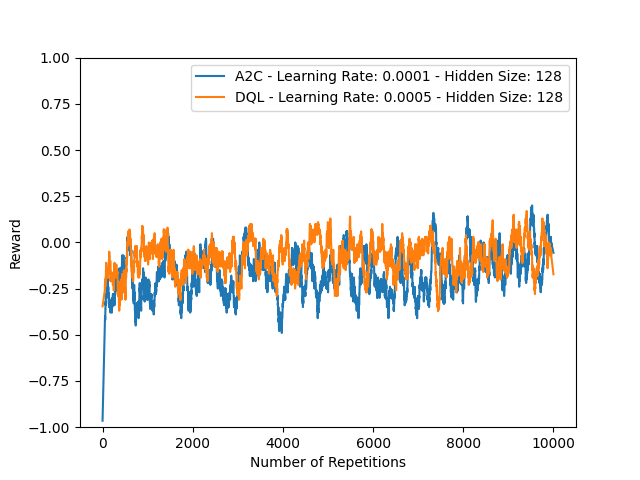
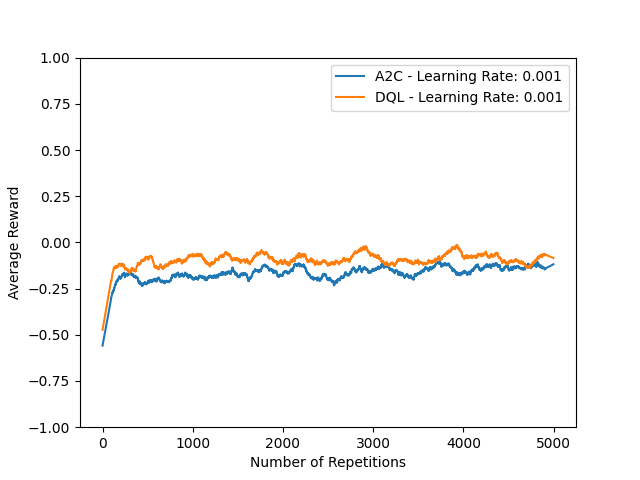
Done

diff --git a/ActorCritic.py b/ActorCritic.py
@@ -5,14 +5,26 @@ import torch.nn as nn
 import matplotlib.pyplot as plt
 import random
 from scipy.signal import savgol_filter
-from agents import ActorCriticDiscrete, DeepQLearning, ExperienceReplay
+from collections import deque
+from agents import ActorCriticDiscrete, DeepQLearning
 
-def A2C_blackjack(model_info, environment, hidden_size, learning_rate, n_repetitions, gamma):
+def A2C_blackjack(model_info, hidden_size, learning_rate, n_repetitions, gamma):
+    """Advantage Actor-Critic for the Blackjack environment. The model is saved as a .pth file when the training is done.
+    
+    Parameters:
+        model_info (str): The information about the model, so that the model can be saved as a .pth file.
+        hidden_size (int): The size of the hidden layer.
+        learning_rate (float): The learning rate for the optimizer.
+        n_repetitions (int): The number of repetitions to train the model on.
+        gamma (float): The discount factor.
+    
+    Returns:
+        total_reward (np.ndarray): The total rewards for each repetition.
+    """
+    environment = gym.make("Blackjack-v1")
     total_rewards = np.zeros(n_repetitions)
     
-    environment = gym.make("Blackjack-v1")
     input_size = len(environment.observation_space)
-    hidden_size = hidden_size
     output_size = environment.action_space.n
     
     model = ActorCriticDiscrete(input_size, hidden_size, output_size)
@@ -61,23 +73,34 @@ def A2C_blackjack(model_info, environment, hidden_size, learning_rate, n_repetit
             optimizer_actor.step()
             optimizer_critic.step()
             state = next_state
-        # print(f"Repetition {repetition}, Actor Loss: {actor_loss.item()}, Critic Loss: {critic_loss.item()}, Reward: {total_reward}, Count: {count}")
     environment.close()
     torch.save(model.state_dict(), f'A2C_blackjack_{model_info}.pth')
     return total_rewards
 
-def DQL_blackjack(model_info, environment, hidden_size, learning_rate, n_repetitions, gamma):
+def DQL_blackjack(model_info, hidden_size, learning_rate, n_repetitions, gamma):
+    """Deep Q-Learning for the Blackjack environment using an experience buffer. The model is saved as a .pth file when the training is done.
+    
+    Parameters:
+        model_info (str): The information about the model, so that the model can be saved as a .pth file.
+        hidden_size (int): The size of the hidden layer.
+        learning_rate (float): The learning rate for the optimizer.
+        n_repetitions (int): The number of repetitions to train the model on.
+        gamma (float): The discount factor.
+    
+    Returns:
+        total_reward (np.ndarray): The total rewards for each repetition.
+    """
+    environment = gym.make("Blackjack-v1")
     total_rewards = np.zeros(n_repetitions)
     
     input_size = len(environment.observation_space)
-    hidden_size = hidden_size
     output_size = environment.action_space.n
 
     model = DeepQLearning(input_size, hidden_size, output_size)
     optimizer = torch.optim.Adam(model.parameters(), lr=learning_rate)
     
     batch_size = 64
-    experience_replay = ExperienceReplay(10000, batch_size)
+    memory = deque(maxlen=10000)
     epsilon = 0.1
     for repetition in range(n_repetitions):
         state, _ = environment.reset()
@@ -96,12 +119,12 @@ def DQL_blackjack(model_info, environment, hidden_size, learning_rate, n_repetit
             if truncation:
                 done = True
             next_state = torch.tensor(next_state, dtype=torch.float32)
-            experience_replay.memory.append((state, action, next_state, reward, done))
+            memory.append((state, action, next_state, reward, done))
             state = next_state
             total_reward += reward
 
-            if len(experience_replay.memory) > batch_size:
-                experiences = random.sample(experience_replay.memory, experience_replay.batch_size)
+            if len(memory) > batch_size:
+                experiences = random.sample(memory, batch_size)
                 states, actions, next_states, rewards, dones = zip(*experiences)
                 states = np.array(states)
                 actions = np.array(actions)
@@ -126,9 +149,22 @@ def DQL_blackjack(model_info, environment, hidden_size, learning_rate, n_repetit
     environment.close()
     torch.save(model.state_dict(), f'DQL_blackjack_{model_info}.pth')
     return total_rewards
-        
 
 def test(input_size, hidden_size, output_size, weights, A2C):
+    """Test the trained model on the Blackjack environment.
+
+    Parameters:
+        input_size (int): The size of the input.
+        hidden_size (int): The size of the hidden layer.
+        output_size (int): The size of the output.
+        weights (str): The path to the weights of the model.
+        A2C (bool): Whether the model is an Actor-Critic model or not.
+        
+    Returns:
+        total_wins (int): The total number of wins.
+        total_losses (int): The total number of losses.
+        total_draws (int): The total number of draws.
+    """
     environment = gym.make("Blackjack-v1")
     if A2C:
         model = ActorCriticDiscrete(input_size, hidden_size, output_size)
@@ -159,10 +195,16 @@ def test(input_size, hidden_size, output_size, weights, A2C):
                     total_draws += 1
             state = torch.tensor(next_state, dtype=torch.float32)
     environment.close()
-    # print(f"Wins: {total_wins}, Losses: {total_losses}, Draws: {total_draws}")
     return total_wins, total_losses, total_draws
     
 def test_random():
+    """Test the random model on the Blackjack environment.
+
+    Returns:
+        total_wins (int): The total number of wins.
+        total_losses (int): The total number of losses.
+        total_draws (int): The total number of draws.
+    """
     environment = gym.make("Blackjack-v1")
     total_wins = 0
     total_losses = 0
@@ -181,53 +223,98 @@ def test_random():
                 else:
                     total_draws += 1
     environment.close()
-    # print(f"Wins: {total_wins}, Losses: {total_losses}, Draws: {total_draws}")
     return total_wins, total_losses, total_draws
 
-def experiment(n_tests, n_repetitions):
+def experiment(environment, n_tests, n_repetitions):
+    """Run all the experiments for the Blackjack environment and both models and plot the results.
+
+    Parameters:
+        environment (gym.Env): The environment to run the experiments on.
+        n_tests (int): The number of tests to run.
+        n_repetitions (int): The number of repetitions to train the models on.
+    """
     optimal_values = {'A2C': {"Evaluation": np.full(n_repetitions, -np.inf), "Learning_rate": 0},
                       'DQL': {"Evaluation": np.full(n_repetitions, -np.inf), "Learning_rate": 0}}
     
+    input_size = len(environment.observation_space)
+    output_size = environment.action_space.n
+    
     learning_rates = [0.0001, 0.0005, 0.001]
-    # for agent in ['A2C', 'DQL']:
-    #     plt.figure()
-    #     for learning_rate in learning_rates:
-    #         model_info = f'{learning_rate}'
-    #         total_rewards = np.zeros((n_tests, n_repetitions))
-    #         for i in range(n_tests):
-    #             environment = gym.make("Blackjack-v1")
-    #             if agent == 'A2C':
-    #                 rewards = A2C_blackjack(model_info, environment, hidden_size=32, learning_rate=learning_rate, n_repetitions=n_repetitions, gamma=0.99)
-    #             elif agent == 'DQL':
-    #                 rewards = DQL_blackjack(model_info, environment, hidden_size=128, learning_rate=learning_rate, n_repetitions=n_repetitions, gamma=0.3)
-    #             total_rewards[i] = rewards
-    #         mean_rewards = np.mean(total_rewards, axis=0)
-    #         window = 100
-    #         smoothed_rewards = savgol_filter(mean_rewards, window, 1)
-    #         if np.sum(mean_rewards) > np.sum(optimal_values[agent]["Evaluation"]):
-    #             optimal_values[agent]["Evaluation"] = mean_rewards
-    #             optimal_values[agent]["Learning_rate"] = learning_rate
-    #         plt.plot(smoothed_rewards, label=f'Learning Rate: {learning_rate}')
-    #     plt.xlabel('Number of Repetitions')
-    #     plt.ylabel('Average Reward')
-    #     plt.ylim(-1, 1)
-    #     plt.legend()
-    #     plt.savefig(f'{agent}_rewards.png')
-    #     plt.close()
+    window = 180
     
-    # plt.figure()
-    # for agent in ['A2C', 'DQL']:
-    #     optimal_value = optimal_values[agent]["Evaluation"]
-    #     window = 100
-    #     smoothed_rewards = savgol_filter(optimal_value, window, 1)
-    #     plt.plot(smoothed_rewards, label=f'{agent} - Learning Rate: {optimal_values[agent]["Learning_rate"]}')
-    # plt.xlabel('Number of Repetitions')
-    # plt.ylabel('Reward')
-    # plt.ylim(-1, 1)
-    # plt.legend()
-    # plt.savefig('optimal_rewards.png')
-    # plt.close()
+    optimal_values = train_models(n_tests, n_repetitions, learning_rates, window)
+    plot_optimal_curves(optimal_values, window)
+    test_models(n_tests, learning_rates, input_size, output_size)
+        
+def train_models(n_tests, n_repetitions, learning_rates, window):
+    """Train two models on the Blackjack environment and plot the results.
+
+    Parameters:
+        n_tests (int): The number of tests to run.
+        n_repetitions (int): The number of repetitions to train the models on.
+        learning_rates (list): The learning rates to train the models on.
+        window (int): The window size for the smoothing function.
+
+    Returns:
+        optimal_values (dict): The optimal curves for the two models.
+    """
+    optimal_values = {'A2C': {"Evaluation": np.full(n_repetitions, -np.inf), "Learning_rate": 0},
+                      'DQL': {"Evaluation": np.full(n_repetitions, -np.inf), "Learning_rate": 0}}
+    for agent in ['A2C', 'DQL']:
+        plt.figure()
+        for learning_rate in learning_rates:
+            model_info = f'{learning_rate}'
+            total_rewards = np.zeros((n_tests, n_repetitions))
+            for i in range(n_tests):
+                if agent == 'A2C':
+                    rewards = A2C_blackjack(model_info, hidden_size=32, learning_rate=learning_rate, n_repetitions=n_repetitions, gamma=0.99)
+                elif agent == 'DQL':
+                    rewards = DQL_blackjack(model_info, hidden_size=128, learning_rate=learning_rate, n_repetitions=n_repetitions, gamma=0.3)
+                total_rewards[i] = rewards
+            mean_rewards = np.mean(total_rewards, axis=0)
+            smoothed_rewards = savgol_filter(mean_rewards, window, 1)
+            if np.sum(mean_rewards) > np.sum(optimal_values[agent]["Evaluation"]):
+                optimal_values[agent]["Evaluation"] = mean_rewards
+                optimal_values[agent]["Learning_rate"] = learning_rate
+            plt.plot(smoothed_rewards, label=f'Learning Rate: {learning_rate}')
+        plt.xlabel('Number of Repetitions')
+        plt.ylabel('Average Reward')
+        plt.ylim(-1, 1)
+        plt.legend()
+        plt.savefig(f'{agent}_rewards.png')
+        plt.close()
+    return optimal_values
+
+def plot_optimal_curves(optimal_values, window):
+    """Plot the optimal curves for the two models.
+
+    Parameters:
+        optimal_values (dict): The optimal values for the two models.
+        window (int): The window size for the smoothing function.
+    """
+    plt.figure()
+    for agent in ['A2C', 'DQL']:
+        optimal_value = optimal_values[agent]["Evaluation"]
+        smoothed_rewards = savgol_filter(optimal_value, window, 1)
+        plt.plot(smoothed_rewards, label=f'{agent} - Learning Rate: {optimal_values[agent]["Learning_rate"]}')
+    plt.xlabel('Number of Repetitions')
+    plt.ylabel('Average Reward')
+    plt.ylim(-1, 1)
+    plt.legend()
+    plt.savefig('optimal_rewards.png')
+    plt.close()
     
+def test_models(n_tests, learning_rates, input_size, output_size):
+    """Test the random and trained models on the Blackjack environment and plot the results.
+
+    Parameters:
+        environment (gym.Env): The environment to test the models on.
+        n_tests (int): The number of tests to run.
+        learning_rates (list): The learning rates to test the models on.
+        input_size (int): The size of the input.
+        output_size (int): The size of the output.
+    """
+    environment = gym.make("Blackjack-v1")
     human_rates = [4222, 848, 4910]
     labels = ['Wins', 'Draws', 'Losses']
     for agent in ['Random', 'A2C', 'DQL']:
@@ -238,15 +325,12 @@ def experiment(n_tests, n_repetitions):
             total_draws = 0
             total_losses = 0
             for i in range(n_tests):
-                environment = gym.make("Blackjack-v1")
-                input_size = len(environment.observation_space)
-                output_size = environment.action_space.n
                 if agent == 'A2C':
-                    wins, losses, draws = test(input_size=input_size, hidden_size=32, output_size=output_size, weights=f'A2C_blackjack_{learning_rate}.pth', A2C=True)
+                    wins, losses, draws = test(environment=environment, input_size=input_size, hidden_size=32, output_size=output_size, weights=f'A2C_blackjack_{learning_rate}.pth', A2C=True)
                 elif agent == 'DQL':
-                    wins, losses, draws = test(input_size=input_size, hidden_size=128, output_size=output_size, weights=f'DQL_blackjack_{learning_rate}.pth', A2C=False)
+                    wins, losses, draws = test(environment=environment, input_size=input_size, hidden_size=128, output_size=output_size, weights=f'DQL_blackjack_{learning_rate}.pth', A2C=False)
                 elif random_count == 0:
-                    wins, losses, draws = test_random()
+                    wins, losses, draws = test_random(environment=environment)
                 total_wins += wins
                 total_draws += draws
                 total_losses += losses
@@ -256,6 +340,7 @@ def experiment(n_tests, n_repetitions):
             average_losses = total_losses / n_tests
             
             x = np.arange(len(labels))
+            # The following code is used to correctly align and plot the bars based on the agent
             if agent == 'A2C' or agent == 'DQL':
                 width = 0.15
                 offset = lr * width
@@ -279,10 +364,11 @@ def experiment(n_tests, n_repetitions):
         plt.close()
     
 def main():
-    n_tests = 4
+    """Run the experiment function with the right parameters."""
     environment = gym.make("Blackjack-v1")
-
-    experiment(n_tests, 20000)
+    n_tests = 10
+    n_repetitions = 5000
+    experiment(environment, n_tests, n_repetitions)
     
 if __name__ == '__main__':
     main()

diff --git a/agents.py b/agents.py
@@ -1,5 +1,4 @@
 import numpy as np
-import torch
 import torch.nn as nn
 from collections import deque, namedtuple
 
@@ -17,9 +16,18 @@ class ActorCriticDiscrete(nn.Module):
             nn.Linear(hidden_size, 1)
         )
         
-        self.softmax = nn.Softmax(dim=0)
+        self.softmax = nn.Softmax(dim=0) # Select the action dimension
 
     def forward(self, state):
+        """Get the actor and critic output for the given state by applying the forward pass of the network and softmax on the actor output.
+
+        Parameters:
+            state (torch.Tensor): The input state for the network.
+
+        Returns:
+            actor_output (torch.Tensor): Model output for the actor network.
+            critic_output (torch.Tensor): Model output for the critic network.
+        """
         actor_output = self.actor(state)
         actor_output = self.softmax(actor_output)
         critic_output = self.critic(state)
@@ -34,16 +42,13 @@ class DeepQLearning(nn.Module):
             nn.Linear(hidden_size, output_size)
         )
     def forward(self, state):
+        """Get the model output for the given state by applying the forward pass of the network.
+
+        Parameters:
+            state (torch.Tensor): The input state for the network.
+
+        Returns:
+            output (torch.Tensor): Model output for the network.
+        """
         output = self.model(state)
         return output
-    
-class ExperienceReplay:
-    def __init__(self, capacity, batch_size):
-        self.capacity = capacity
-        self.memory = deque(maxlen=capacity)
-        self.batch_size = batch_size
-        self.experience = namedtuple('Experience', field_names=['state', 'action', 'reward', 'next_state', 'done'])
-        
-    def sample_batch(self):
-        batch = np.radnom.sample(self.memory, self.batch_size)
-        return batch
